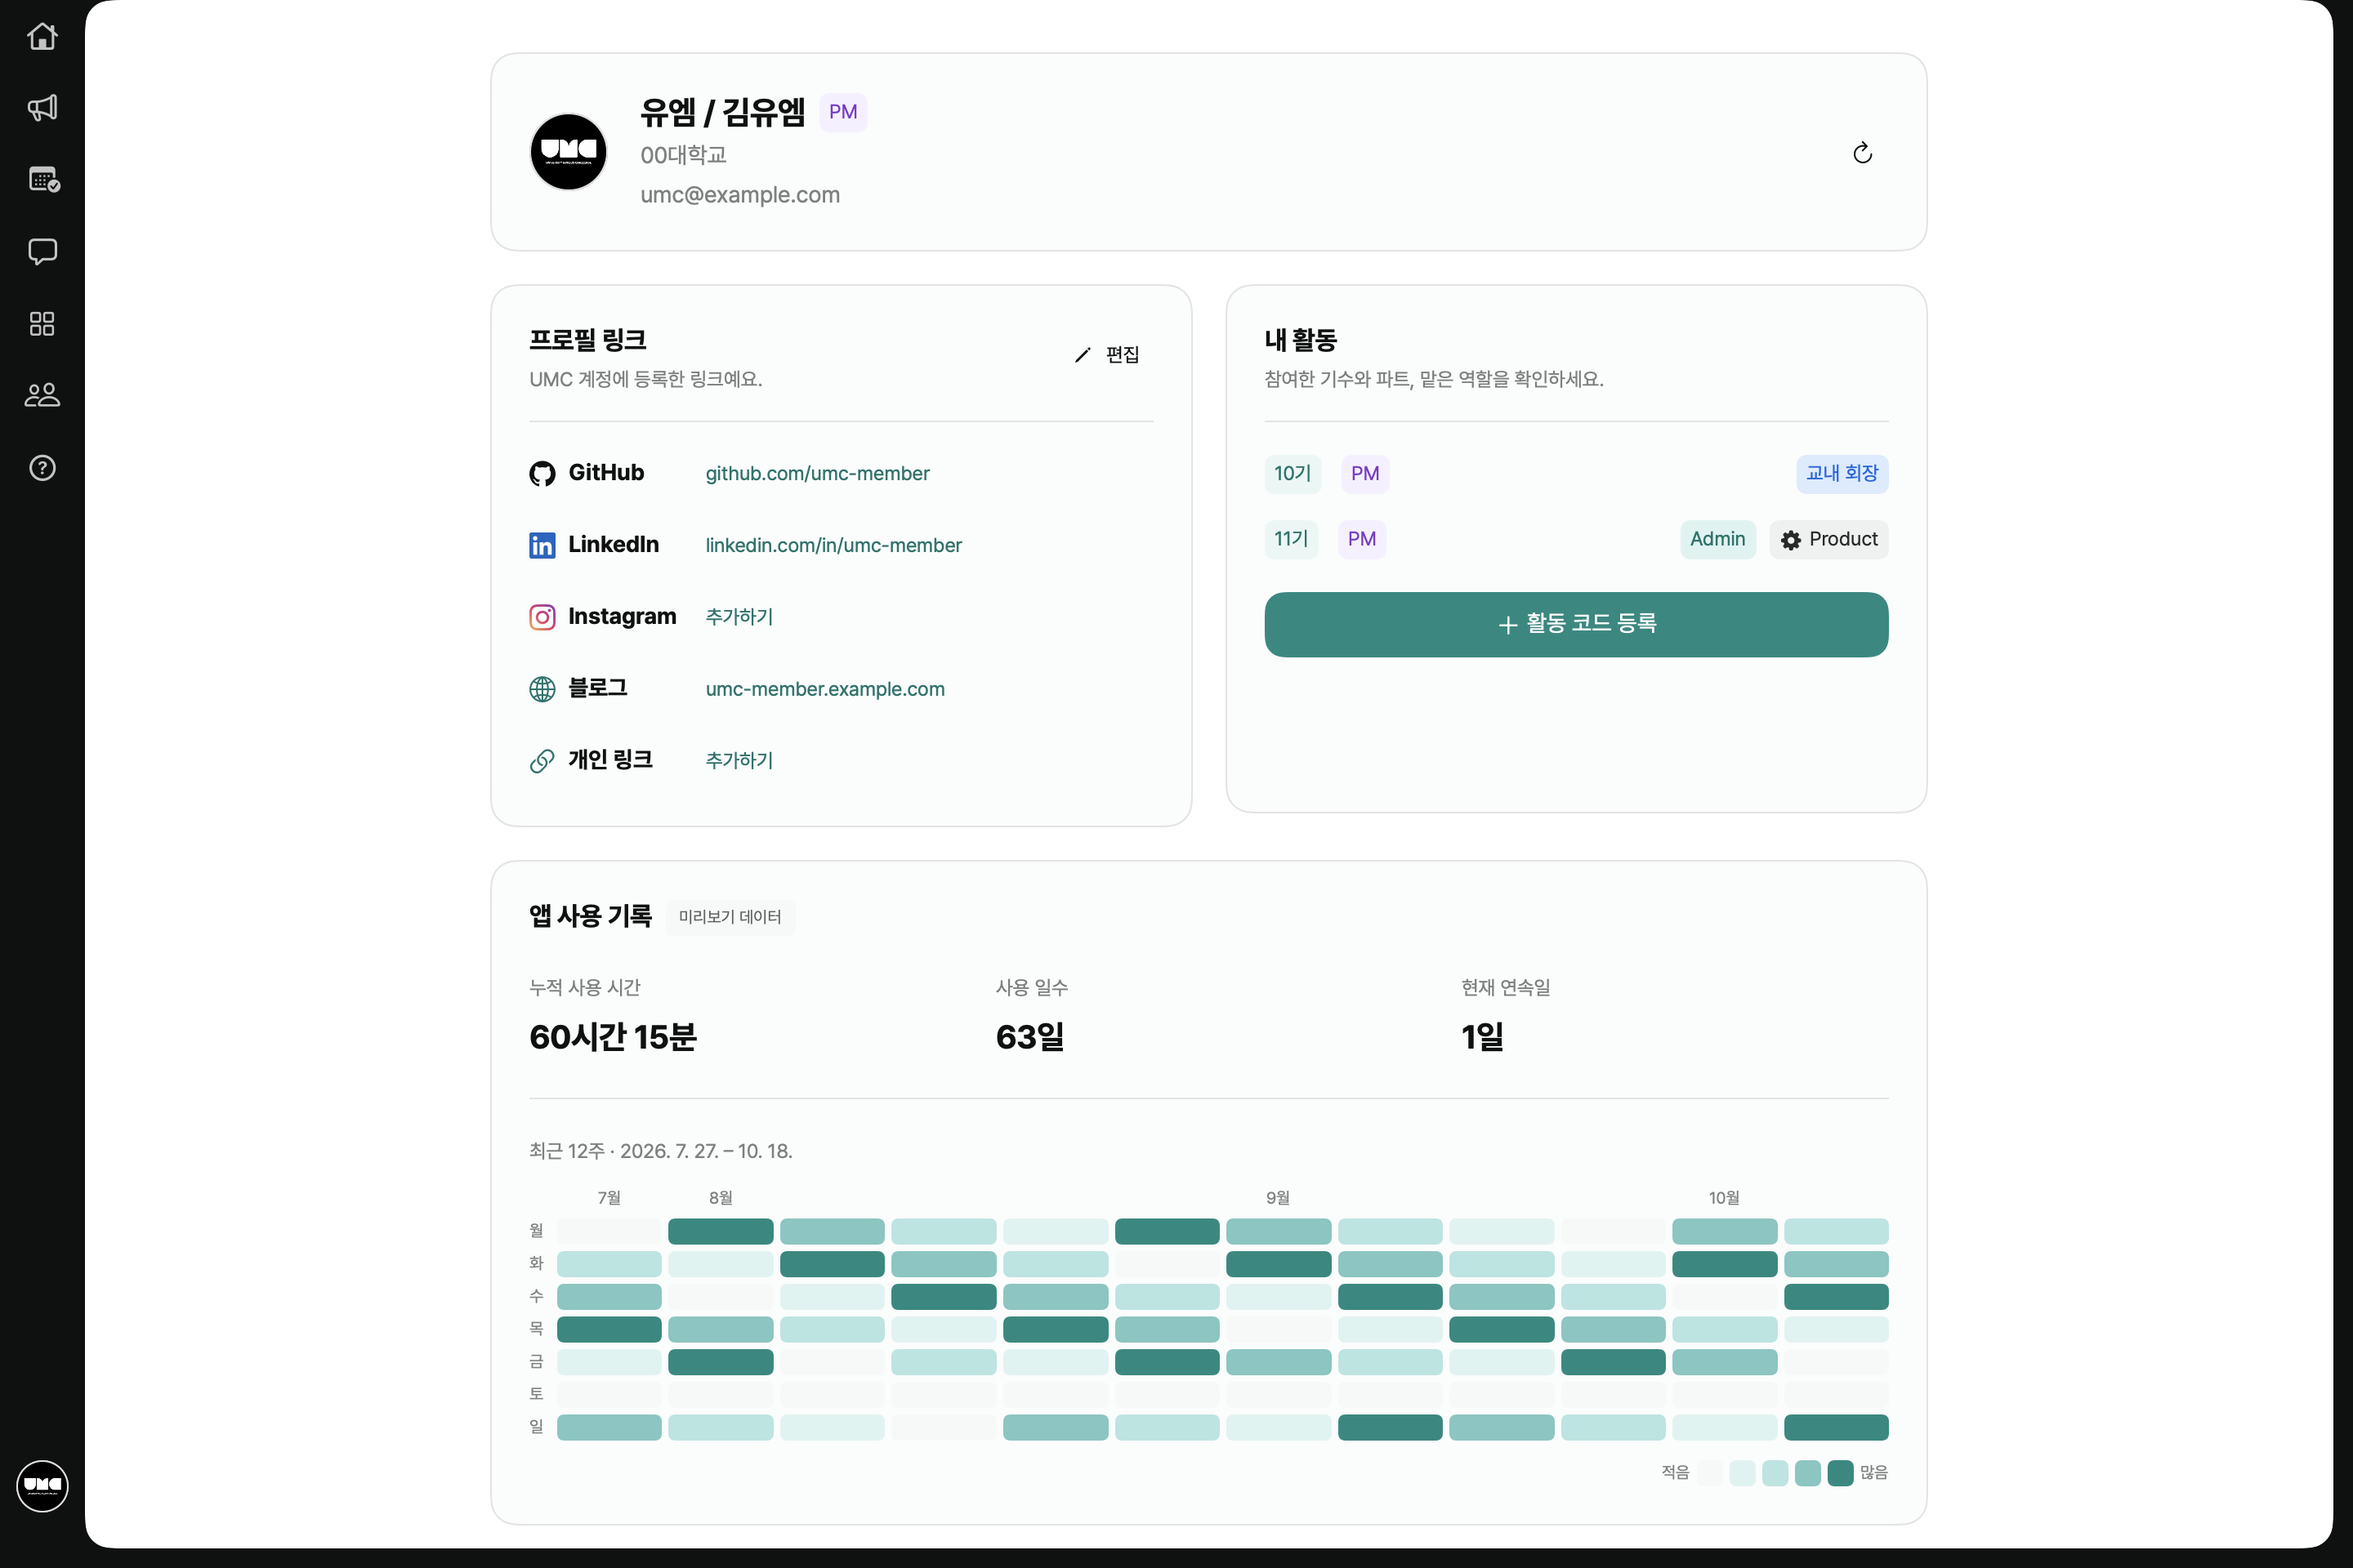
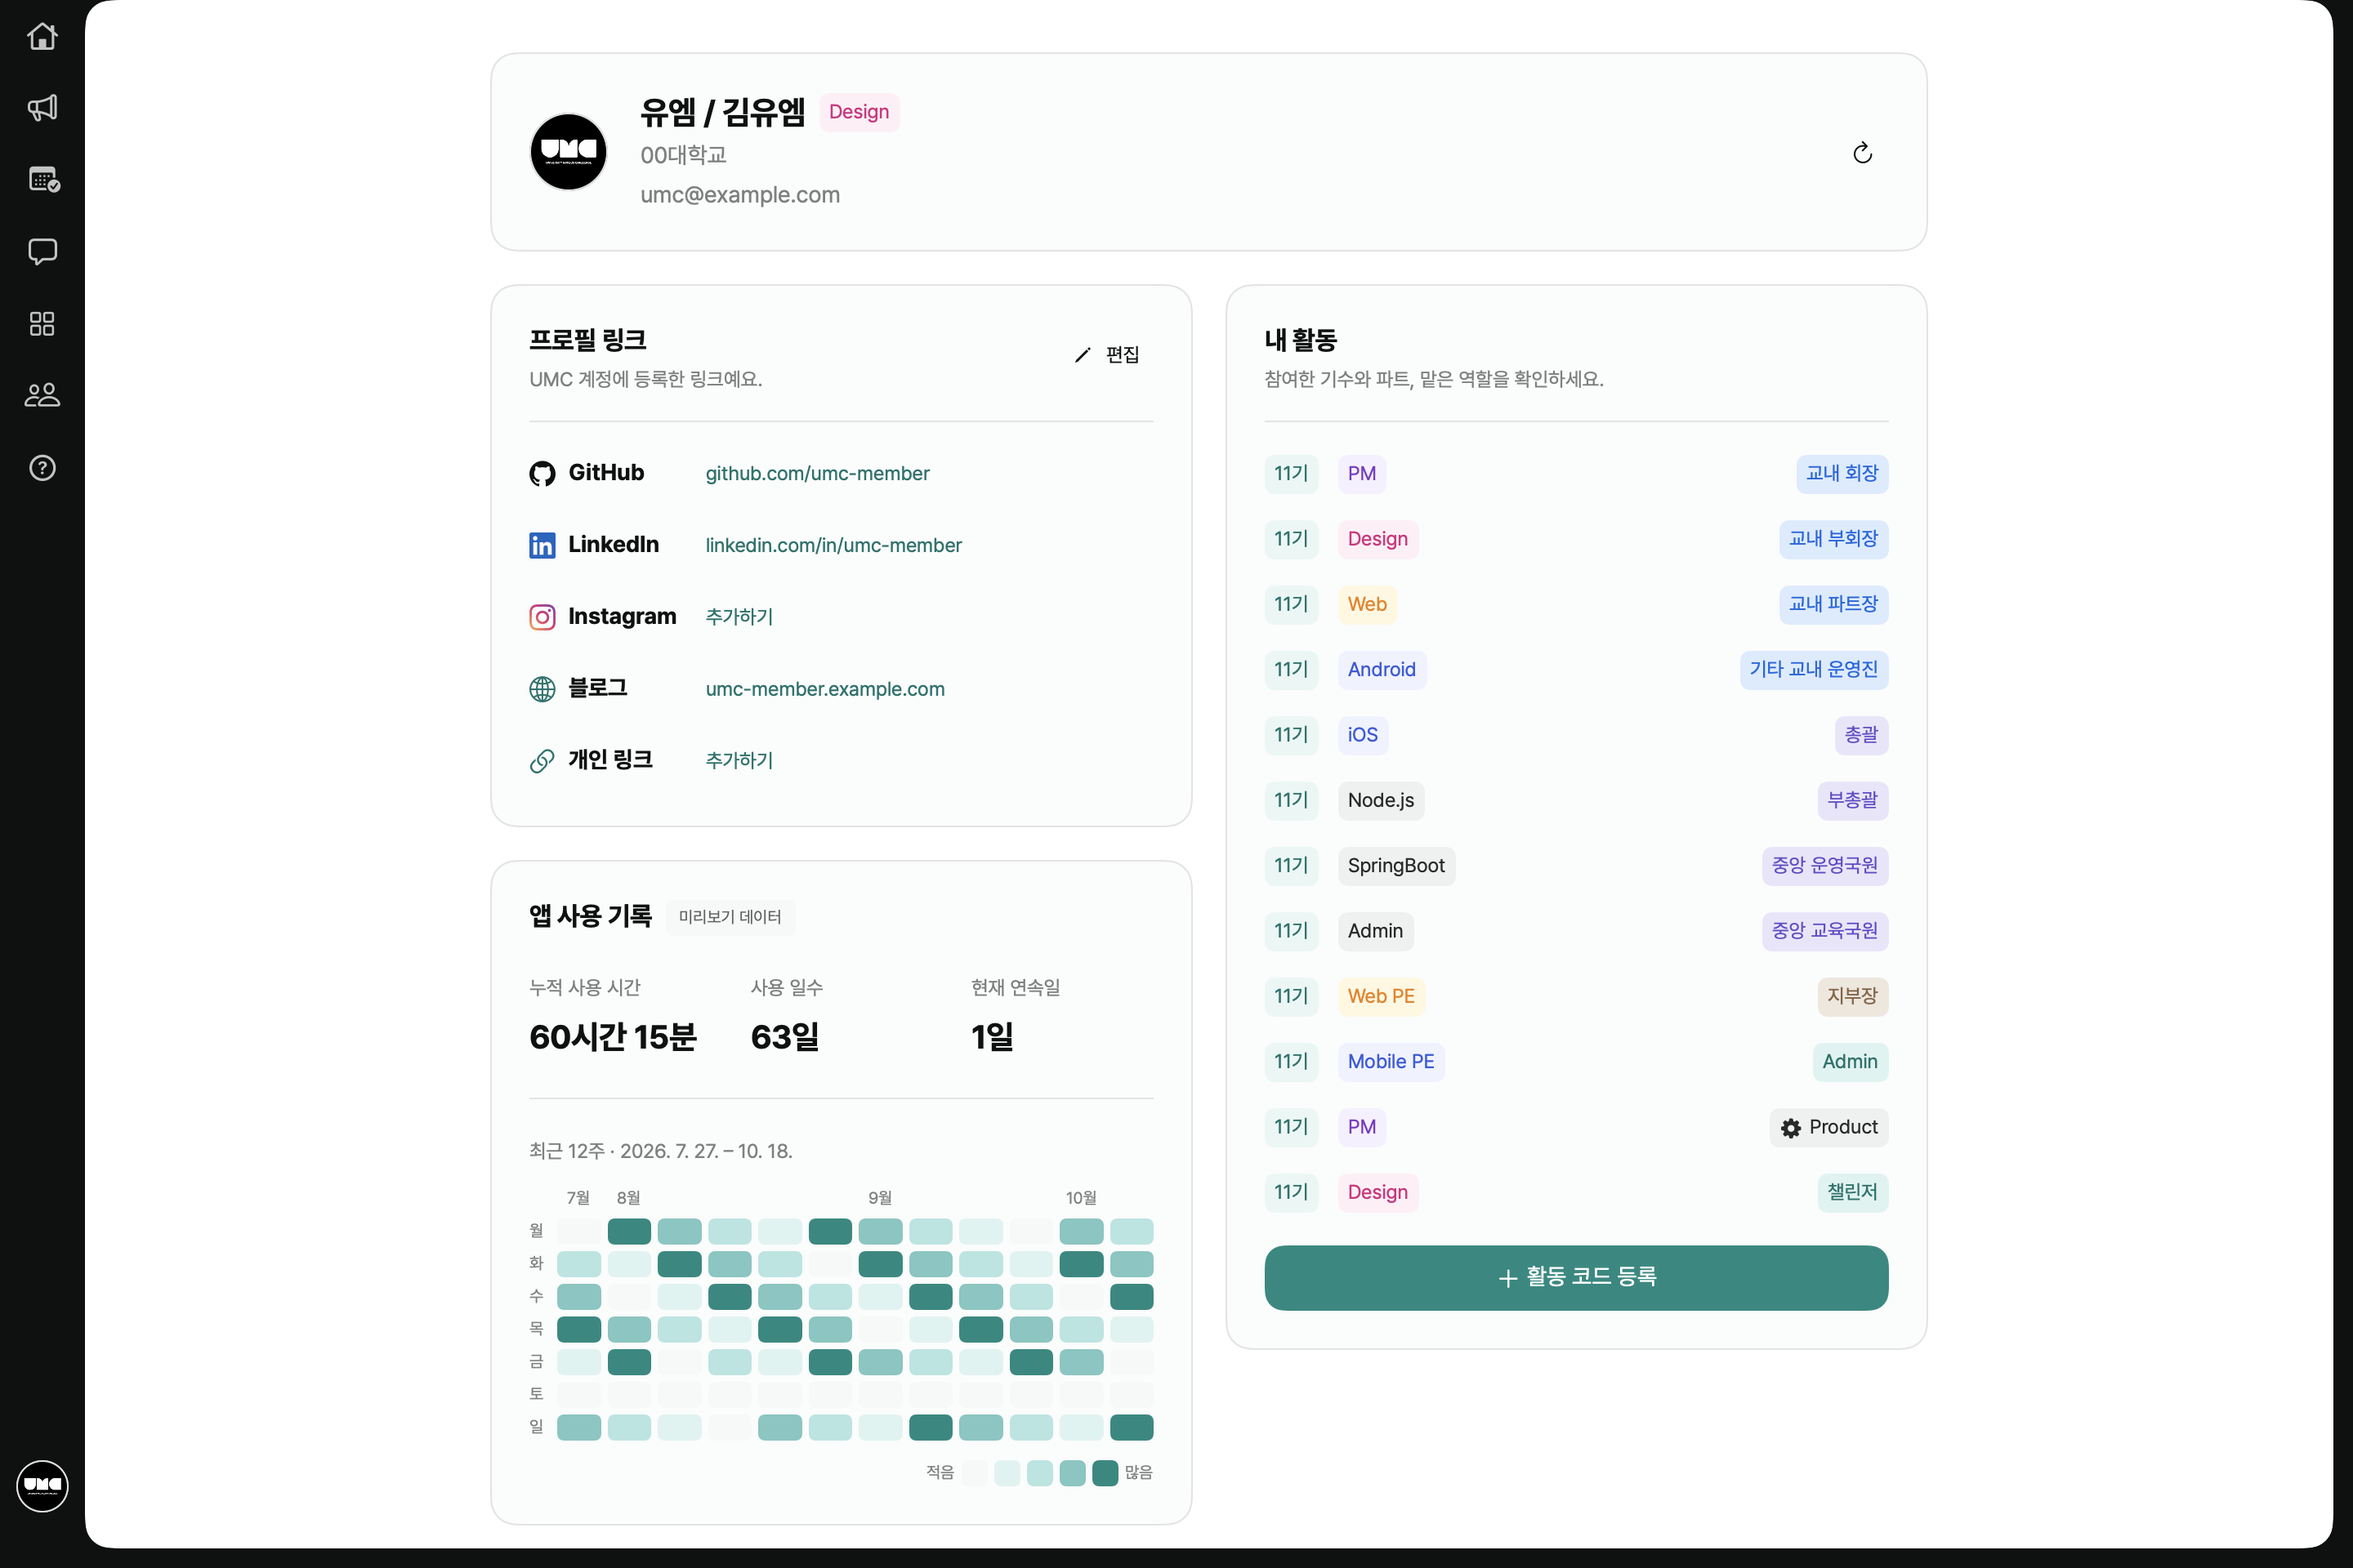
design: 마이페이지 카드 배치와 프로필 메뉴 강조 개선
- 프로필 링크와 사용 기록을 왼쪽 열에 배치하고 내 활동 높이 분리
- 프로필 메뉴 배경 그림자와 브랜드 호버 색상 및 키보드 강조 수정
- 설정 프리뷰 기본값을 전체 역할 화면으로 변경하고 회귀 검사 보강
- 최신 마이페이지 레이아웃 리뷰 캡처 갱신

diff --git a/UMCDesk/Features/Settings/Presentation/Sources/SettingsView.swift b/UMCDesk/Features/Settings/Presentation/Sources/SettingsView.swift
@@ -15,6 +15,7 @@ public struct SettingsView: View {
     @State private var viewModel: SettingsViewModel
     @State private var showsProfileMenu = false
     @State private var hoveredProfileMenuItem: ProfileMenuFocus?
+    @State private var showsProfileKeyboardFocus = false
     @FocusState private var profileMenuFocus: ProfileMenuFocus?
     @AccessibilityFocusState private var accessibleProfileMenuFocus: ProfileMenuFocus?
 
@@ -84,6 +85,7 @@ public struct SettingsView: View {
                         .padding(.leading, Constants.railWidth + UMCSpacing.value12)
                         .padding(.bottom, UMCSpacing.value12 + UMCSpacing.value16)
                         .onAppear {
+                            showsProfileKeyboardFocus = false
                             profileMenuFocus = .myPage
                             accessibleProfileMenuFocus = .myPage
                         }
@@ -204,17 +206,21 @@ public struct SettingsView: View {
         .padding(UMCSpacing.value8)
         .frame(width: 240)
         .foregroundStyle(UMCColor.Semantic.textNeutralStrong800)
-        .background(UMCColor.Custom.backgroundDefault,
-            in: .rect(cornerRadius: UMCRadius.value12))
+        .background {
+            RoundedRectangle(cornerRadius: UMCRadius.value12)
+                .fill(UMCColor.Custom.backgroundDefault)
+                .shadow(color: .black.opacity(0.16), radius: 16, y: 4)
+        }
         .overlay {
             RoundedRectangle(cornerRadius: UMCRadius.value12)
                 .strokeBorder(UMCColor.Semantic.borderNeutralWeak200)
         }
-        .shadow(color: .black.opacity(0.16), radius: 16, y: 4)
         .accessibilityElement(children: .contain)
         .accessibilityLabel("프로필 메뉴")
-        .onChange(of: profileMenuFocus) { _, _ in
+        .onKeyPress(keys: [.tab, .upArrow, .downArrow]) { _ in
+            showsProfileKeyboardFocus = true
             hoveredProfileMenuItem = nil
+            return .ignored
         }
     }
 
@@ -253,10 +259,14 @@ public struct SettingsView: View {
         }
         .buttonStyle(SettingsPlainButtonStyle(
             highlight: hoveredProfileMenuItem != nil || profileMenuFocus == focus ?
-                UMCColor.Semantic.fillNeutralWeakerHoverPressed : .clear,
+                UMCColor.Semantic.fillPrimaryWeakHoverPressed : .clear,
             cornerRadius: UMCRadius.value6,
-            isFocused: hoveredProfileMenuItem == nil && profileMenuFocus == focus))
+            isFocused: profileMenuShowsKeyboardHighlight(
+                keyboardNavigation: showsProfileKeyboardFocus,
+                hasHoveredItem: hoveredProfileMenuItem != nil,
+                isFocused: profileMenuFocus == focus)))
         .onHover { hovering in
+            showsProfileKeyboardFocus = false
             if hovering {
                 hoveredProfileMenuItem = focus
             } else if hoveredProfileMenuItem == focus {
@@ -434,4 +444,10 @@ private struct RailTooltip: ViewModifier {
                 }
             }
     }
+}
+
+func profileMenuShowsKeyboardHighlight(
+    keyboardNavigation: Bool, hasHoveredItem: Bool, isFocused: Bool
+) -> Bool {
+    keyboardNavigation && !hasHoveredItem && isFocused
 }

diff --git a/UMCDesk/Features/Settings/Presentation/Tests/SettingsSearchTests.swift b/UMCDesk/Features/Settings/Presentation/Tests/SettingsSearchTests.swift
@@ -61,3 +61,27 @@ struct SettingsActivityRoleTests {
         }
     }
 }
+
+struct SettingsProfileMenuFocusTests {
+    @Test("Automatic focus stays visually idle until keyboard navigation begins")
+    func pointerAndKeyboardHighlightSequence() {
+        // Opening by pointer still assigns real focus to My Page for accessibility.
+        #expect(!profileMenuShowsKeyboardHighlight(
+            keyboardNavigation: false, hasHoveredItem: false, isFocused: true))
+        // Entering and leaving another row must not resurrect that automatic highlight.
+        #expect(!profileMenuShowsKeyboardHighlight(
+            keyboardNavigation: false, hasHoveredItem: true, isFocused: true))
+        #expect(!profileMenuShowsKeyboardHighlight(
+            keyboardNavigation: false, hasHoveredItem: false, isFocused: true))
+        // Tab or an arrow key reveals the currently focused row, then follows focus.
+        #expect(profileMenuShowsKeyboardHighlight(
+            keyboardNavigation: true, hasHoveredItem: false, isFocused: true))
+        #expect(!profileMenuShowsKeyboardHighlight(
+            keyboardNavigation: true, hasHoveredItem: false, isFocused: false))
+        // Pointer re-entry owns highlighting, even before the keyboard flag resets.
+        #expect(!profileMenuShowsKeyboardHighlight(
+            keyboardNavigation: true, hasHoveredItem: true, isFocused: true))
+        #expect(!profileMenuShowsKeyboardHighlight(
+            keyboardNavigation: false, hasHoveredItem: true, isFocused: true))
+    }
+}

diff --git a/UMCDesk/Features/Settings/Presentation/Sources/Views/SettingsProfileView.swift b/UMCDesk/Features/Settings/Presentation/Sources/Views/SettingsProfileView.swift
@@ -20,15 +20,19 @@ struct SettingsProfileView: View {
                     profileSummary(profile)
                     ViewThatFits(in: .horizontal) {
                         HStack(alignment: .top, spacing: UMCSpacing.value20) {
-                            profileLinks(profile).frame(minWidth: 340)
+                            VStack(spacing: UMCSpacing.value20) {
+                                profileLinks(profile)
+                                SettingsUsageCard(isDesignPreview: viewModel.isDesignPreview)
+                            }
+                            .frame(minWidth: 340)
                             activities(profile).frame(minWidth: 340)
                         }
                         VStack(spacing: UMCSpacing.value20) {
                             profileLinks(profile)
                             activities(profile)
+                            SettingsUsageCard(isDesignPreview: viewModel.isDesignPreview)
                         }
                     }
-                    SettingsUsageCard(isDesignPreview: viewModel.isDesignPreview)
                     HStack(spacing: UMCSpacing.value16) {
                         SettingsInlineMessage(
                             message: "이름, 학교, 활동 정보가 다르면 운영진에게 문의해 주세요.",

diff --git a/UMCDesk/UMCDesk/Tests/AppDependenciesTests.swift b/UMCDesk/UMCDesk/Tests/AppDependenciesTests.swift
@@ -30,7 +30,7 @@ struct AppDependenciesTests {
         #expect(preferences.showsMenuBar)
     }
 
-    @Test("Invalid preview arguments never fall back to a live account")
+    @Test("Missing or invalid preview arguments show all parts and roles in isolation")
     func invalidPreviewIsIsolated() throws {
         for arguments in [
             ["--settings-preview", "typo"],
@@ -42,7 +42,10 @@ struct AppDependenciesTests {
                 arguments: arguments, preferences: preferences
             ))
             #expect(preview.isDesignPreview)
-            #expect(preview.profile != nil)
+            let profile = try #require(preview.profile)
+            #expect(profile.activities.count == 12)
+            #expect(Set(profile.activities.map(\.part)).count == 10)
+            #expect(Set(profile.activities.flatMap(\.roles)).count == 12)
         }
     }
 

diff --git a/UMCDesk/UMCDesk/Sources/Composition/AppDependencies.swift b/UMCDesk/UMCDesk/Sources/Composition/AppDependencies.swift
@@ -101,7 +101,7 @@ final class AppDependencies {
     ) -> SettingsViewModel? {
         guard let index = arguments.firstIndex(of: "--settings-preview") else { return nil }
         let requested = arguments.indices.contains(index + 1) ? arguments[index + 1] : ""
-        let identifier = SettingsDesignPreview.ids.contains(requested) ? requested : "757:12600"
+        let identifier = SettingsDesignPreview.ids.contains(requested) ? requested : "activity_roles"
         guard let preview = SettingsDesignPreview.makeViewModel(
             id: identifier, preferences: preferences
         ) else { preconditionFailure("The default settings preview must exist") }

diff --git a/UMCDesk/Features/Settings/Presentation/Tests/SettingsAppearanceTests.swift b/UMCDesk/Features/Settings/Presentation/Tests/SettingsAppearanceTests.swift
@@ -22,7 +22,7 @@ struct SettingsAppearanceTests {
             "SettingsAppearanceTests.\(UUID().uuidString)")!)
         preferences.bodyTextSize = size.width == 1040 ? .extraLarge : .standard
         for id in ["757:12600", "807:13303", "903:3596", "903:14091", "903:14321", "906:3869",
-            "activity_roles"] {
+            "activity_roles", "776:17026"] {
             let model = try #require(SettingsDesignPreview.makeViewModel(id: id,
                 preferences: preferences))
             let controller = NSHostingController(rootView: SettingsView(viewModel: model)
